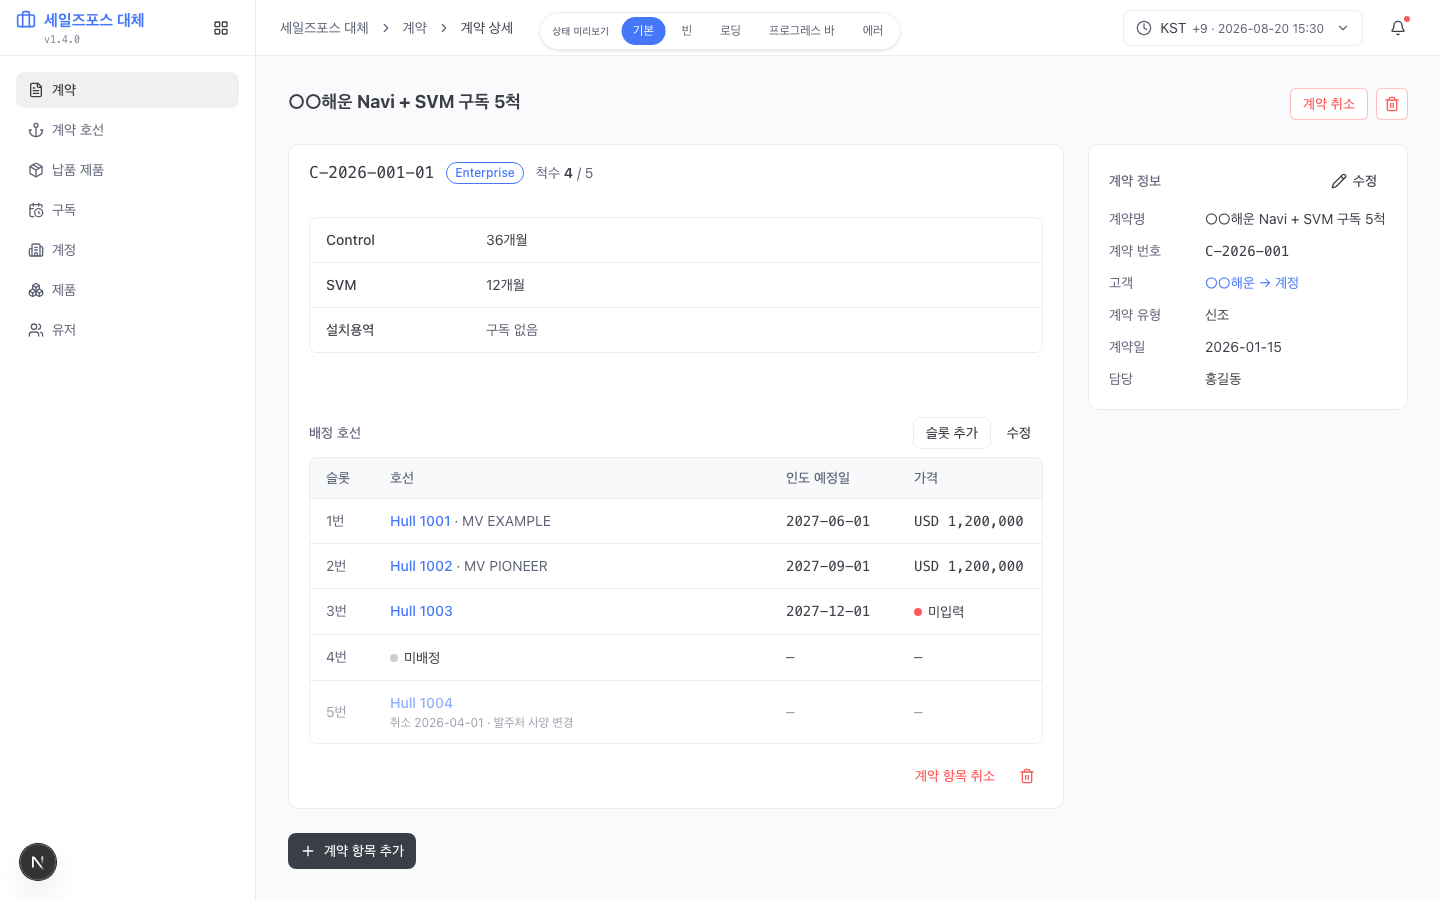
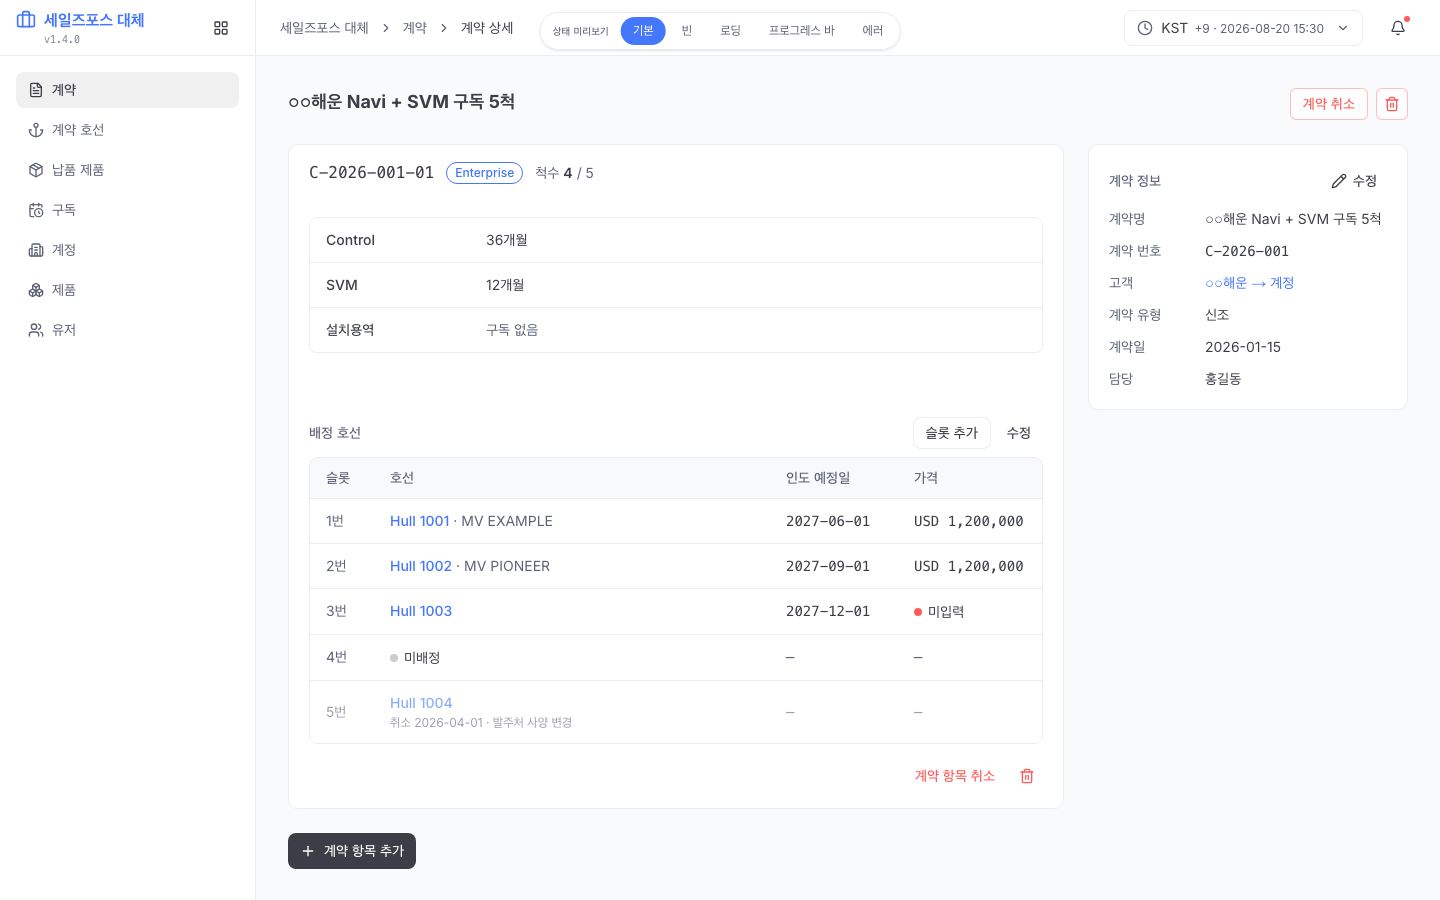
fix(365): playground 전역 서체 교정 — 시스템 폴백(SF Pro) → Inter(라이브러리 Typography 정합). 원인: Geist 변수만 싣고 --font-sans 매핑 부재로 system-ui 렌더. next/font Inter + @theme --font-sans 연결(한글 시스템 폴백 유지), 미사용 Geist 제거, metadata Create Next App → HiNAS 365. 대시보드 픽셀 검증 + 템플릿 실물 스샷 4장 Inter 기준 재캡처. 프로덕션 빌드·tsc 0

diff --git a/playground/app/layout.tsx b/playground/app/layout.tsx
@@ -1,20 +1,18 @@
 import type { Metadata } from "next";
-import { Geist, Geist_Mono } from "next/font/google";
+import { Inter } from "next/font/google";
 import "./globals.css";
 
-const geistSans = Geist({
-  variable: "--font-geist-sans",
-  subsets: ["latin"],
-});
-
-const geistMono = Geist_Mono({
-  variable: "--font-geist-mono",
+// 라이브러리 정합 서체 — 피그마 Typography = Inter (Desktop 10종 · dstk 편입분 동일).
+// 한글은 시스템 폴백(Inter 한글 글리프 없음 — 피그마와 같은 거동). 2026-09-03 교정:
+// 종전엔 Geist를 변수로만 싣고 --font-sans 매핑이 없어 system-ui(SF Pro)로 렌더됐다.
+const inter = Inter({
+  variable: "--font-inter",
   subsets: ["latin"],
 });
 
 export const metadata: Metadata = {
-  title: "Create Next App",
-  description: "Generated by create next app",
+  title: "HiNAS 365",
+  description: "HiNAS Design System playground",
 };
 
 export default function RootLayout({
@@ -25,7 +23,7 @@ export default function RootLayout({
   return (
     <html
       lang="en"
-      className={`${geistSans.variable} ${geistMono.variable} h-full antialiased`}
+      className={`${inter.variable} h-full antialiased`}
     >
       <body className="min-h-full flex flex-col">{children}</body>
     </html>

diff --git a/playground/app/globals.css b/playground/app/globals.css
@@ -6,6 +6,8 @@
 @source "../../components/src";
 
 @theme inline {
+  /* 서체 — Inter(라이브러리 정합), 한글은 시스템 폴백 */
+  --font-sans: var(--font-inter), ui-sans-serif, system-ui, -apple-system, "Apple SD Gothic Neo", sans-serif;
   --color-background: var(--background);
   --color-foreground: var(--foreground);
   --color-card: var(--card);
